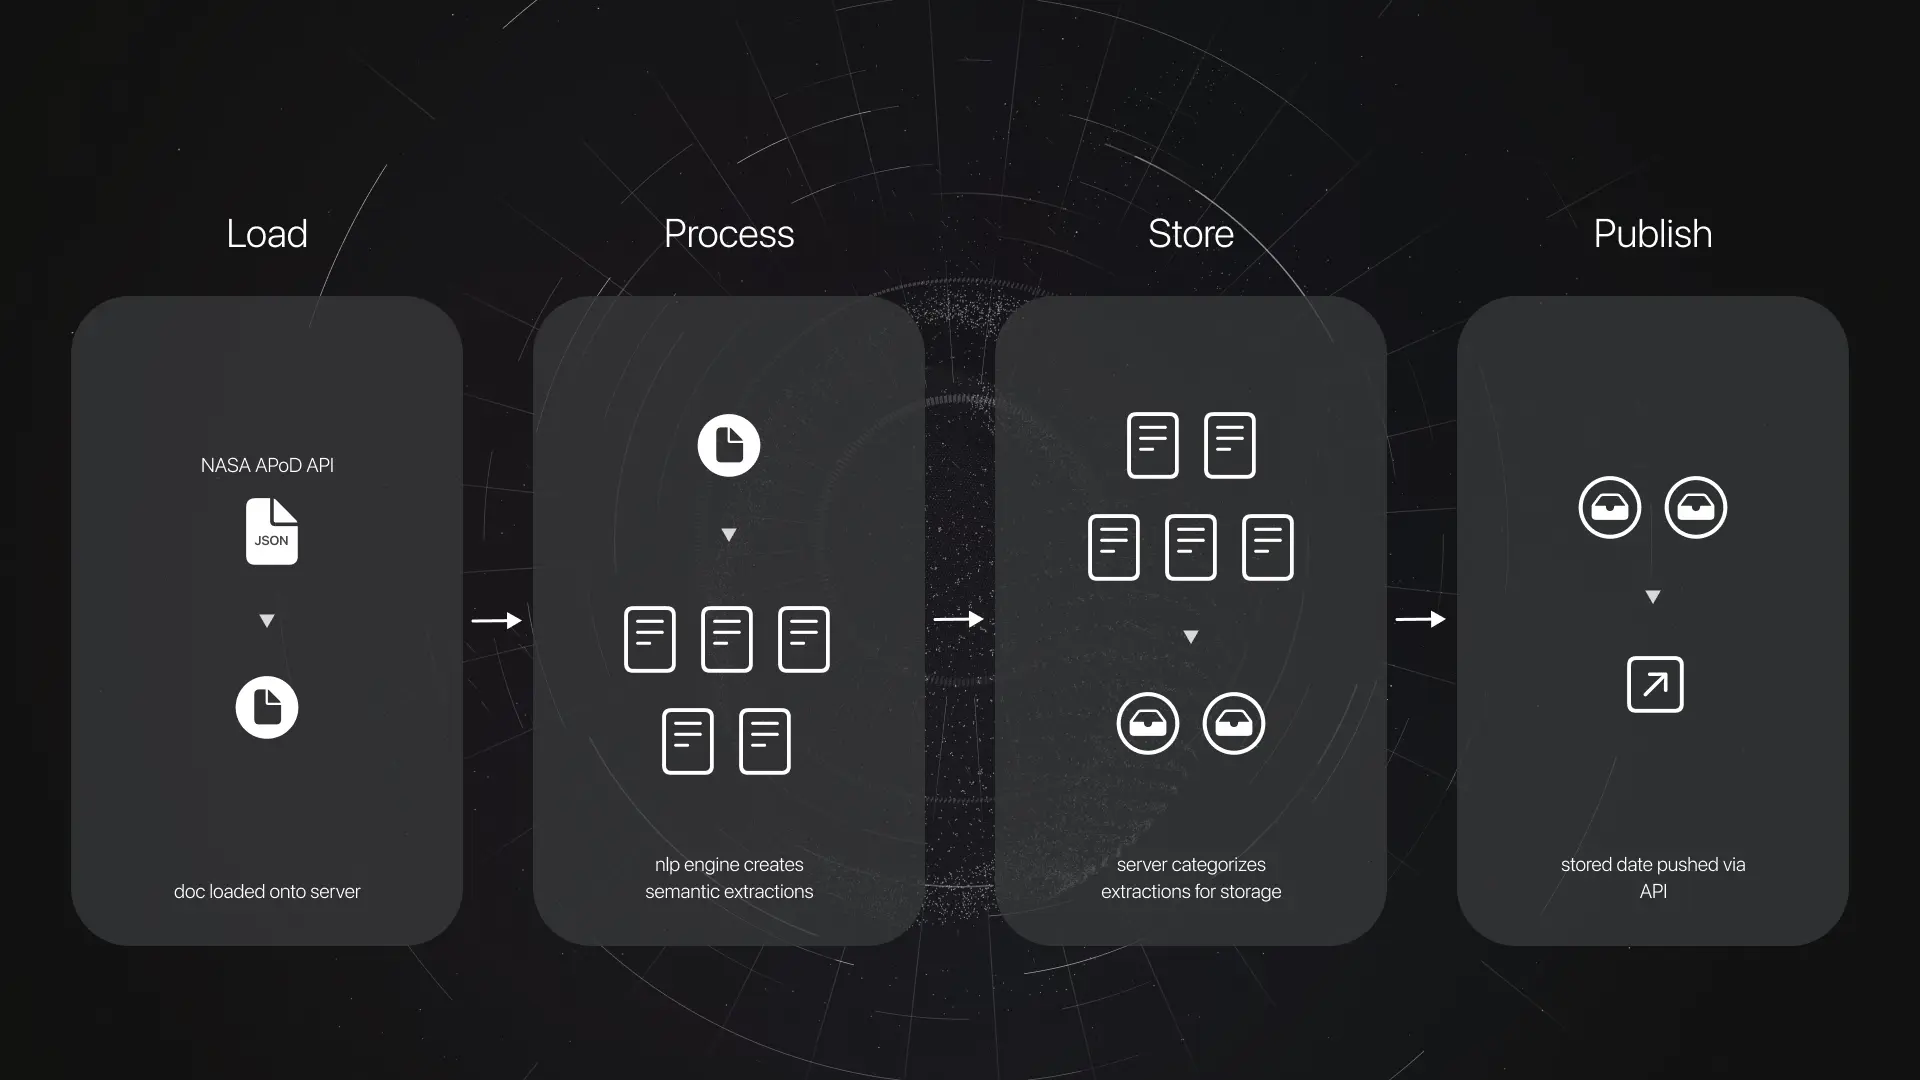
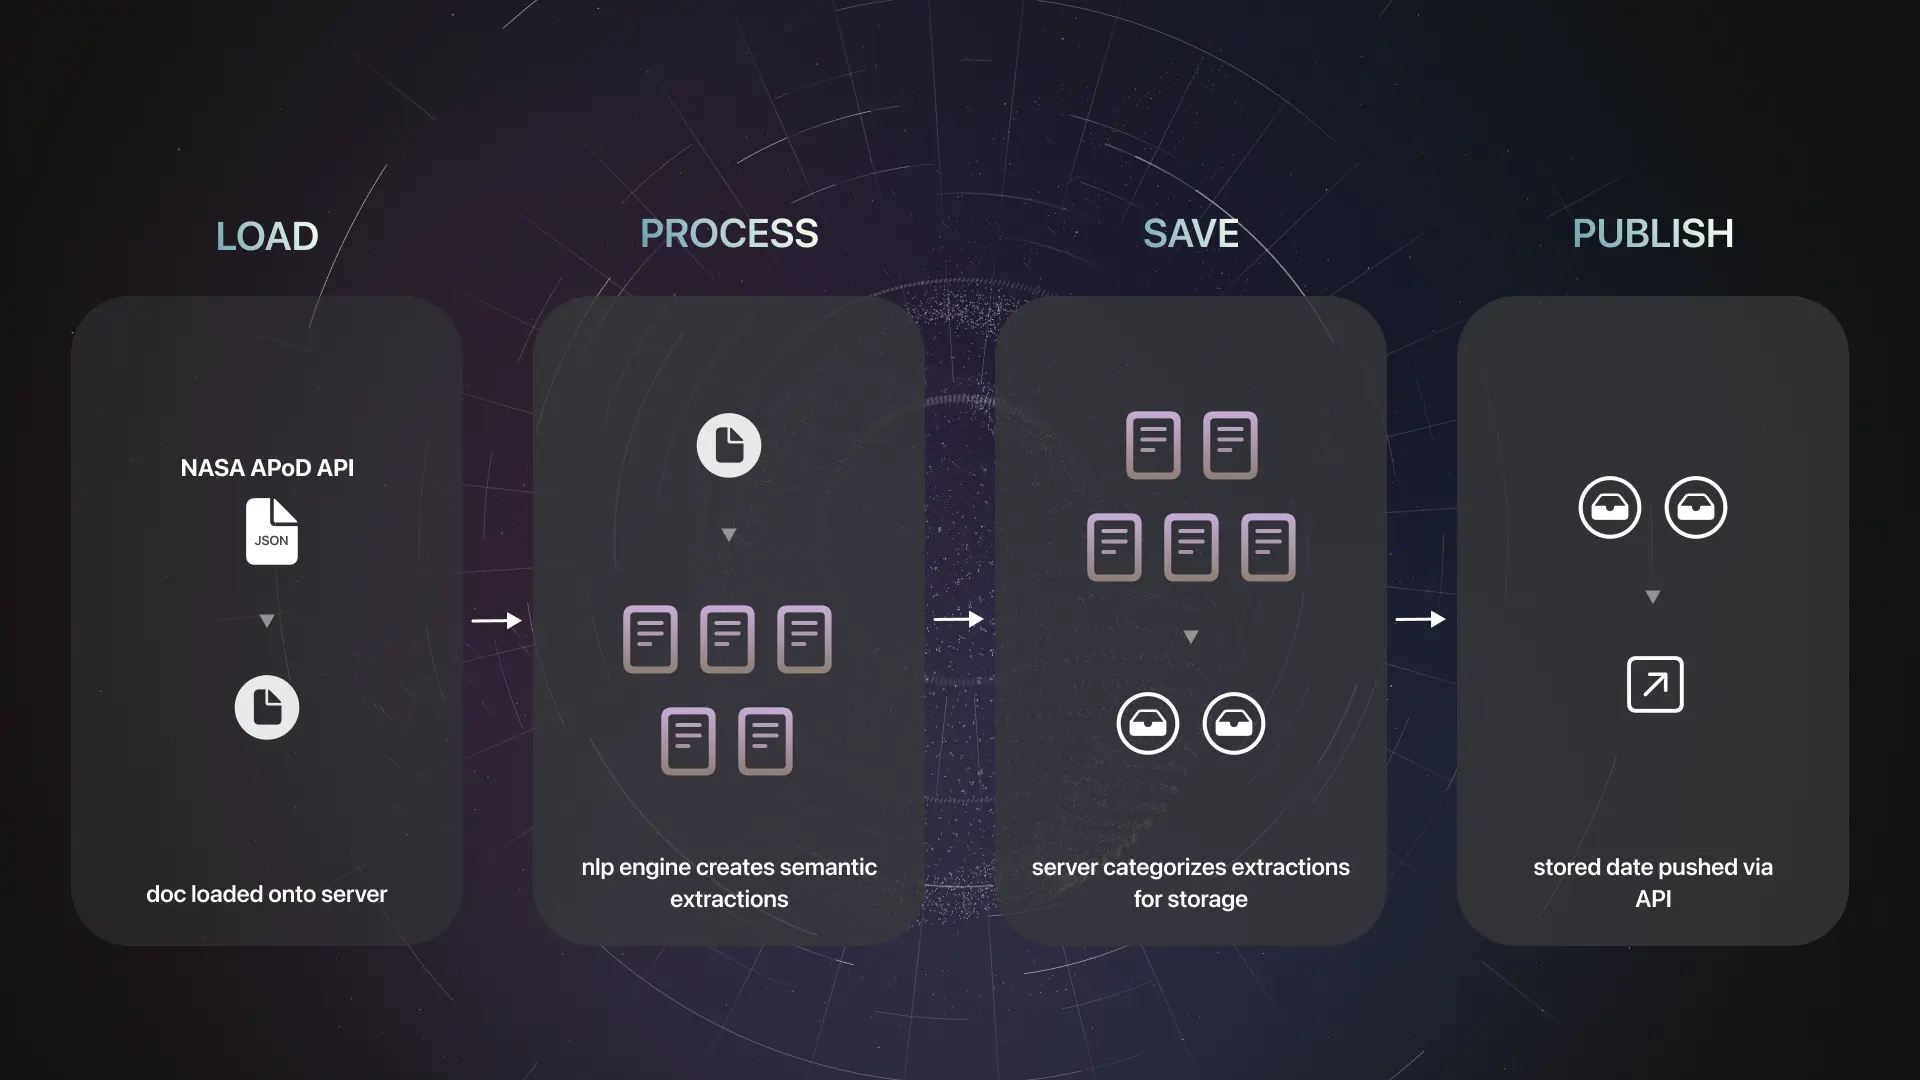
minor tweaks

diff --git a/index.html b/index.html
@@ -1756,7 +1756,7 @@
                                     <p>The core stack is powered by natural language processing (NLP) via a server that intelligently curates astronomy pictures and content. This system takes users on a journey through the cosmos, creating an editorial experience that feels thoughtfully crafted—all without human intervention.</p>
                                 </div>
                                 {/* Bento Image */}
-                                <div className="w-full mt-6 md:mt-8 mb-6 md:mb-8">
+                                <div className="w-full mt-6 md:mt-8" style={{ marginBottom: '80px' }}>
                                     <img 
                                         src="assets/astro-assets/bento.webp" 
                                         alt="All Astronomy Bento" 
@@ -1764,9 +1764,9 @@
                                         onLoad={(e) => e.target.classList.add('loaded')}
                                     />
                                 </div>
-                                {/* Intelligent Curation Overview Subheading */}
-                                <h3 className="text-lg md:text-xl lg:text-2xl font-[300] text-[#4A4A4A] mb-4 md:mb-6 mt-20 md:mt-24 text-center md:text-left">
-                                    Intelligent Curation Overview
+                                {/* System Design Overview Subheading */}
+                                <h3 className="text-lg md:text-xl lg:text-2xl font-[300] text-[#4A4A4A] mb-4 md:mb-6 mt-0 text-center md:text-left">
+                                    System Design Overview
                                 </h3>
                                 {/* Overview Image */}
                                 <div className="w-full mt-6 md:mt-8 mb-6 md:mb-8">
@@ -1776,10 +1776,21 @@
                                         className="w-full h-auto rounded-xl"
                                         onLoad={(e) => e.target.classList.add('loaded')}
                                     />
+                                    <p className="text-sm md:text-base text-[#4A4A4A] opacity-60 font-[300] italic text-center md:text-left mt-3 md:mt-4">
+                                        High level overview of entire server for intelligent curation
+                                    </p>
                                 </div>
-                                {/* Image Placeholder */}
-                                <div className="w-full h-[400px] md:h-[500px] lg:h-[600px] rounded-xl bg-gray-300 flex items-center justify-center mt-6 md:mt-8">
-                                    <span className="text-[#4A4A4A] opacity-40 font-[300] text-sm md:text-base">Image Placeholder</span>
+                                {/* NLP Image */}
+                                <div className="w-full mt-6 md:mt-8 mb-6 md:mb-8">
+                                    <img 
+                                        src="assets/astro-assets/nlp.webp" 
+                                        alt="NLP Smart Curation Algorithm" 
+                                        className="w-full h-auto rounded-xl"
+                                        onLoad={(e) => e.target.classList.add('loaded')}
+                                    />
+                                    <p className="text-sm md:text-base text-[#4A4A4A] opacity-60 font-[300] italic text-center md:text-left mt-3 md:mt-4">
+                                        NLP smart curation algorithm for taking users through a curated journey
+                                    </p>
                                 </div>
                             </div>
                         )}
@@ -1820,6 +1831,18 @@
                                     <div className="w-full h-[400px] md:h-[500px] lg:h-[600px] rounded-xl bg-gray-300 flex items-center justify-center">
                                         <span className="text-[#4A4A4A] opacity-40 font-[300] text-sm md:text-base">Image Placeholder</span>
                                     </div>
+                                </div>
+                                {/* Code Image */}
+                                <div className="w-full mt-6 md:mt-8 mb-6 md:mb-8">
+                                    <img 
+                                        src="assets/astro-assets/code.png" 
+                                        alt="Code" 
+                                        className="w-full h-auto rounded-xl"
+                                        onLoad={(e) => e.target.classList.add('loaded')}
+                                    />
+                                    <p className="text-sm md:text-base text-[#4A4A4A] opacity-60 font-[300] italic text-center md:text-left mt-3 md:mt-4">
+                                        Process of building all-astronomy app on xcode
+                                    </p>
                                 </div>
                             </div>
                         )}
@@ -2630,6 +2653,7 @@
                                             <div className={`work-project-image w-full xl:w-[70%] flex items-stretch relative ${index % 2 === 0 ? 'xl:order-1' : 'xl:order-2'}`}>
                                                 {project.image ? (
                                                     <>
+                                                        {/* Coming Soon hover animation commented out - project 0 now behaves like other projects
                                                         {project.id === 0 ? (
                                                             <div className="relative w-full h-auto min-h-[250px] md:min-h-[300px] xl:h-full xl:min-h-[500px] rounded-xl overflow-hidden">
                                                                 <img 
@@ -2642,7 +2666,7 @@
                                                                     <ComingSoonContainer />
                                                                 </div>
                                                             </div>
-                                                        ) : project.id === 2 ? (
+                                                        ) : */ project.id === 2 ? (
                                                             <video 
                                                                 src={project.image}
                                                                 className="w-full h-auto min-h-[250px] md:min-h-[300px] xl:h-full xl:min-h-[500px] object-cover rounded-xl"
